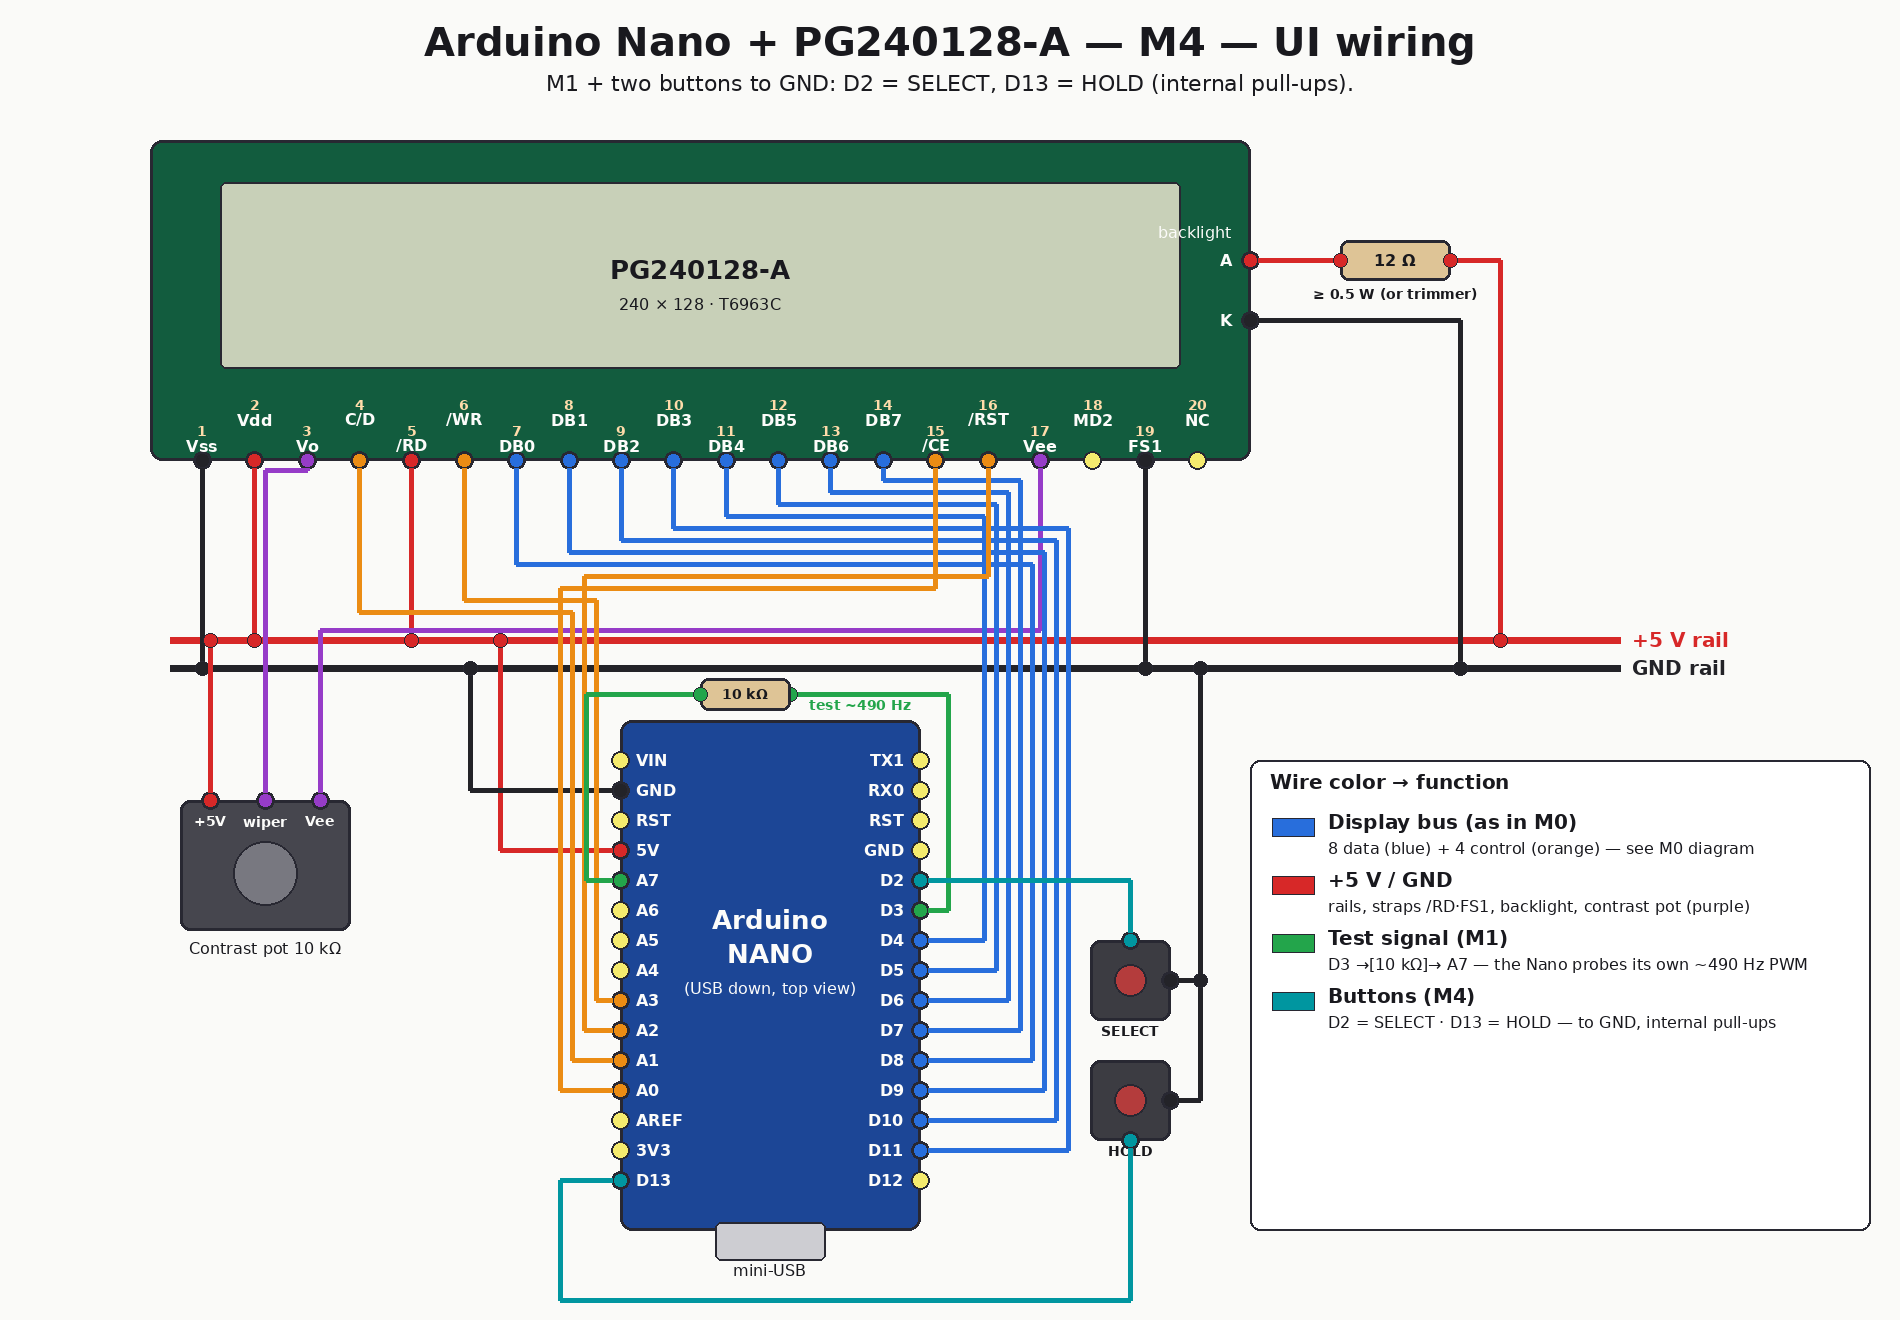
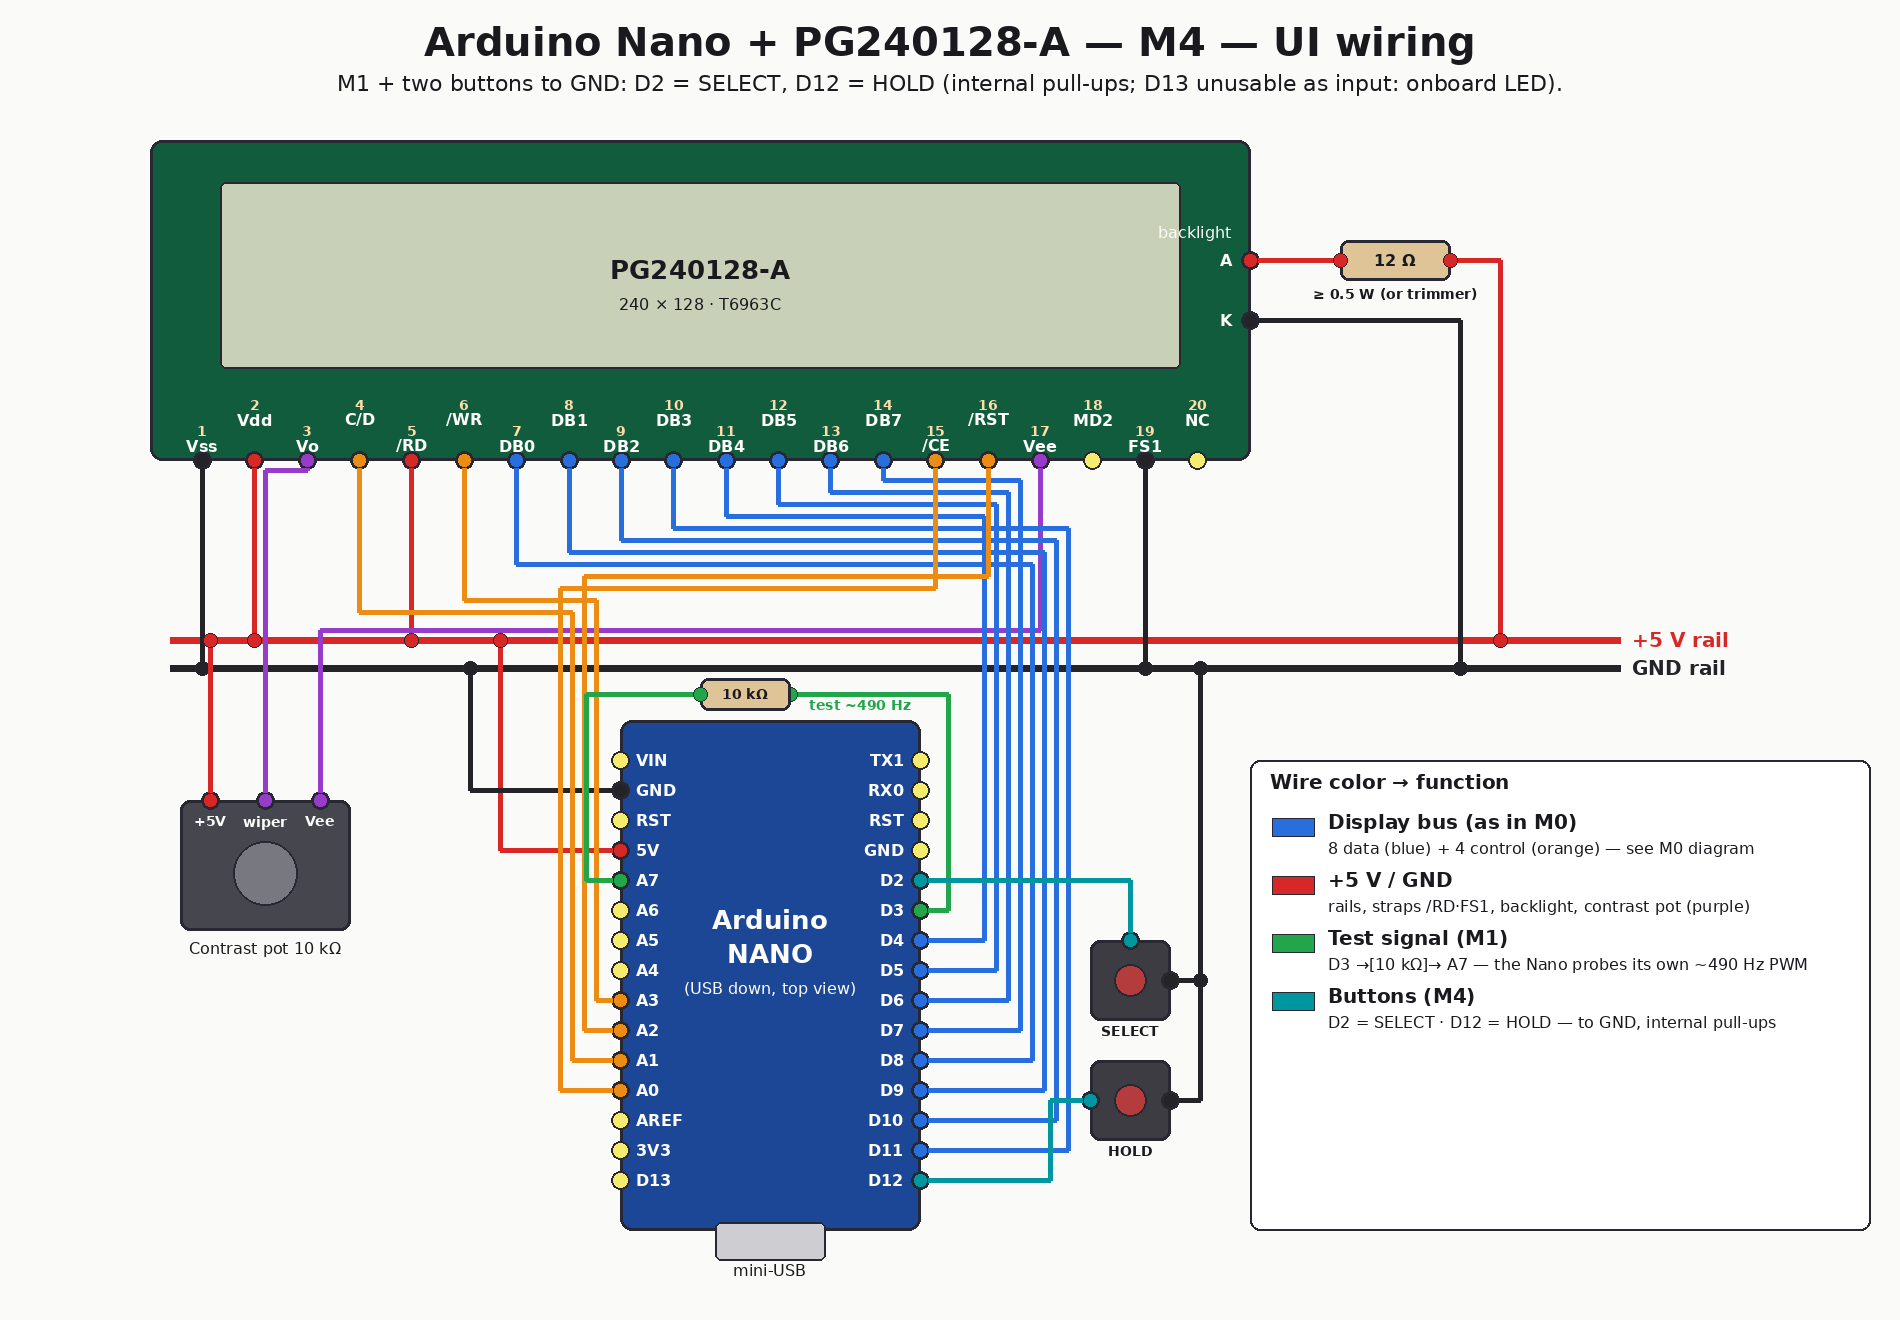
Design fix: HOLD button D13 -> D12, RANGE sense D12 -> A4
The Nano's onboard LED on D13 forms a divider against the internal
pull-up (~1.9 V, reads LOW forever), so D13 cannot be a button input.
HOLD moves to D12; the M5 range-sense moves to A4. Diagrams
regenerated, docs and pin-budget table updated.

diff --git a/tools/wiring_diagrams.py b/tools/wiring_diagrams.py
@@ -5,8 +5,8 @@ contrast pot, backlight). Each milestone adds its hardware on top:
   M1  + test signal   D3 -[10k]-> A7
   M2  (software only — banner, wiring = M1)
   M3  (software only — banner, wiring = M1)
-  M4  + buttons       D2=SELECT, D13=HOLD (to GND, internal pull-ups)
-  M5  + front-end board -> A7, RANGE sense -> D12, test loop becomes CAL post
+  M4  + buttons       D2=SELECT, D12=HOLD (to GND, internal pull-ups)
+  M5  + front-end board -> A7, RANGE sense -> A4, test loop becomes CAL post
   M6  + CH2 probe -> A6
 
 Technique from multi-rocket-avionica/breadboard-wiring/wiring_diagram.py:
@@ -99,9 +99,9 @@ MILESTONES = {
     3: ("wiring-m3-fast-sampling.png", "M3 — Fast sampling (77 kSps)",
         "Software-only milestone: wiring identical to M1."),
     4: ("wiring-m4-ui-buttons.png", "M4 — UI wiring",
-        "M1 + two buttons to GND: D2 = SELECT, D13 = HOLD (internal pull-ups)."),
+        "M1 + two buttons to GND: D2 = SELECT, D12 = HOLD (internal pull-ups; D13 unusable as input: onboard LED)."),
     5: ("wiring-m5-front-end.png", "M5 — Analog front-end wiring",
-        "Front-end board feeds A7 · RANGE sense on D12 · test PWM becomes a CAL post."),
+        "Front-end board feeds A7 · RANGE sense on A4 · test PWM becomes a CAL post."),
     6: ("wiring-m6-dual-channel.png", "M6 — Dual channel wiring",
         "M5 + second probe into A6. Pre-trigger / PC streaming are software."),
 }
@@ -280,10 +280,9 @@ def draw_buttons(d, nano_xy):
     d2 = nano_xy["D2"]
     draw_pin(d, 1130, 940)                       # SELECT top pin
     wire(d, [d2, (1130, d2[1]), (1130, 940)], COL_BTN)
-    d13 = nano_xy["D13"]
-    draw_pin(d, 1130, 1140)                      # HOLD bottom pin
-    wire(d, [d13, (560, d13[1]), (560, 1300), (1130, 1300), (1130, 1140)],
-         COL_BTN)
+    d12 = nano_xy["D12"]
+    draw_pin(d, 1090, 1100)                      # HOLD left pin
+    wire(d, [d12, (1050, d12[1]), (1050, 1100), (1090, 1100)], COL_BTN)
     # shared GND return
     draw_pin(d, 1170, 980)
     draw_pin(d, 1170, 1100)
@@ -314,12 +313,11 @@ def draw_frontend(d, nano_xy):
     d.text((525, 1004), "OUT", font=F_PINSM, fill=COL_TEXT_LIGHT, anchor="mt")
     wire(d, [(525, 1000), (525, a7[1]), a7], COL_SIG)
 
-    # RANGE sense -> D12 (right edge)
-    d12 = nano_xy["D12"]
+    # RANGE sense -> A4 (right edge, short hop up the left side)
+    a4 = nano_xy["A4"]
     draw_pin(d, 545, 1160)
     d.text((529, 1160), "RANGE", font=F_PINSM, fill=COL_TEXT_LIGHT, anchor="rm")
-    wire(d, [(545, 1160), (605, 1160), (605, 1210), (940, 1210),
-             (940, d12[1]), d12], COL_RANGE)
+    wire(d, [(545, 1160), (575, 1160), (575, a4[1]), a4], COL_RANGE)
 
     # board GND -> GND rail
     wire(d, [(180, 1170), (156, 1170), (156, RAIL_GND_Y)], COL_GND)
@@ -383,12 +381,12 @@ def draw_legend(d, m):
                 "D3 →[10 kΩ]→ A7 — the Nano probes its own ~490 Hz PWM"]))
         if m >= 4:
             entries.append((COL_BTN, "Buttons (M4)", [
-                "D2 = SELECT · D13 = HOLD — to GND, internal pull-ups"]))
+                "D2 = SELECT · D12 = HOLD — to GND, internal pull-ups"]))
         if m >= 5:
             entries.append((COL_SIG, "Signal chain (M5)", [
                 "probe → front-end → A7 · D3 →10k→ CAL self-test post"]))
             entries.append((COL_RANGE, "RANGE sense (M5)", [
-                "front-end ×1/×10 switch position → D12 (input pull-up)"]))
+                "front-end ×1/×10 switch position → A4 (input pull-up)"]))
         if m >= 6:
             entries.append((COL_CH2, "Channel 2 (M6)", [
                 "CH2 probe →[10 kΩ + clamps]→ A6"]))

diff --git a/docs/04-build-plan.md b/docs/04-build-plan.md
@@ -25,9 +25,10 @@ Novelty check: **no public Arduino scope uses a T6963C 240×128** — this will 
 | D0/D1 | USB serial (debug, PC streaming later) |
 | **D2, D3** | rotary encoder A/B (both are hardware interrupts) — or 2 buttons. D3 doubles as PWM test-signal out if buttons go elsewhere |
 | D4–D11 | display data bus DB4–DB7 + DB0–DB3 (see [hello world](00-hello-world-nano.md)) |
-| **D12, D13** | encoder push-button / Hold button / range-switch sense |
+| **D12** | HOLD button (to GND, internal pull-up) |
+| D13 | onboard LED only — the LED defeats INPUT_PULLUP, never use it as a button input |
 | A0–A3 | display /CE, C/D, /RST, /WR |
-| A4, A5 | free (I²C reserved — future RTC/expander) |
+| **A4**, A5 | A4 = ×1/×10 range-switch sense (M5); A5 free (I²C still possible) |
 | **A6** | second channel / trigger-level trimmer / ±20 V voltmeter network |
 | **A7** | **the probe input** |
 

diff --git a/docs/00-hello-world-nano.md b/docs/00-hello-world-nano.md
@@ -67,7 +67,7 @@ Somewhere on the display board there are also two backlight pads marked **A** (a
 
 ```
                      ┌───────USB───────┐
-   (future button) ──│ D12         D13 │── (future button)
+   (future button) ──│ D12         D13 │── (LED only, not a button)
                      │ 3V3        AREF │
    /CE  ◄────────────│ A0           D2 │── (future button/encoder)
    C/D  ◄────────────│ A1           D3 │── (future button/encoder)
@@ -251,6 +251,6 @@ With this exact wiring, the oscilloscope project continues using:
 
 - **A7** → the analog signal input (probe) — see [analog front-end doc](03-analog-front-end-and-trigger.md)
 - **D2 / D3** → buttons (they support hardware interrupts)
-- **D12 / D13** → more buttons or status LED
+- **D12** → HOLD button (D13 stays as LED — its onboard LED defeats input pull-ups)
 
 Continue with the [build plan](04-build-plan.md).

diff --git a/docs/03-analog-front-end-and-trigger.md b/docs/03-analog-front-end-and-trigger.md
@@ -57,7 +57,7 @@ Solves the source-impedance problem (ADC wants ≤10 kΩ) and enables millivolt 
 
 ### Range switching
 
-An SPDT/rotary switch selects which network feeds A7 (×1 = A/B, ×10 = C); a spare Nano pin (D12, input pull-up) *reads* the switch so the firmware scales the graticule automatically. A real **P6100-class 10:1 probe (~€10–15)** in front of everything is the best upgrade: 10 MΩ loading, compensated, insulated, rated.
+An SPDT/rotary switch selects which network feeds A7 (×1 = A/B, ×10 = C); a spare Nano pin (A4, input pull-up) *reads* the switch so the firmware scales the graticule automatically. A real **P6100-class 10:1 probe (~€10–15)** in front of everything is the best upgrade: 10 MΩ loading, compensated, insulated, rated.
 
 ## Trigger: how the trace stands still
 